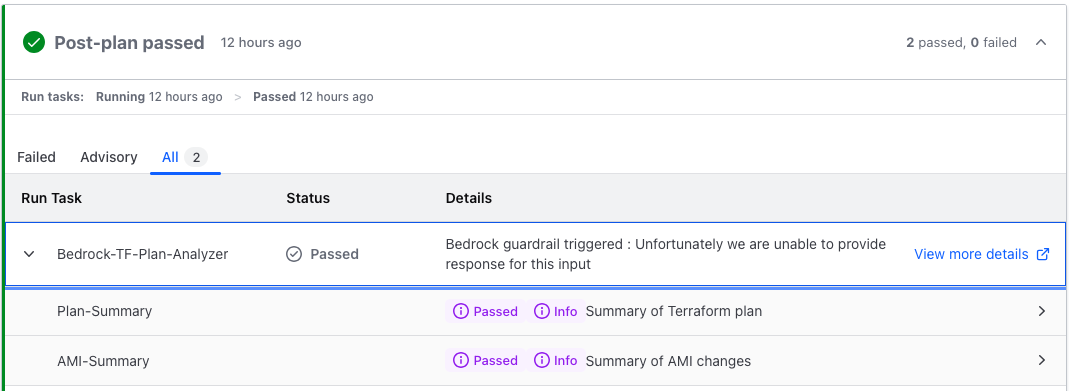
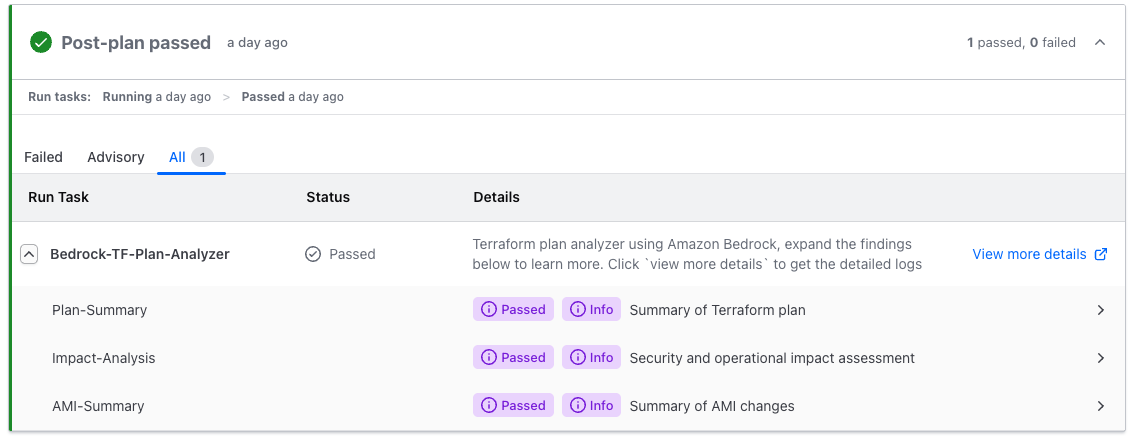
fix: updated docs to refer claude 4, updated python module bindings

diff --git a/README.md b/README.md
@@ -3,7 +3,7 @@
 
 ## Overview
 
-Enhance your HashiCorp Cloud Platform Terraform (Terraform Cloud) workflows with AI-powered analysis using Amazon Bedrock. This module integrates seamlessly as a Run Task to provide:
+Enhance your HashiCorp Cloud Platform Terraform (previosly known as Terraform Cloud) workflows with AI-powered analysis using Amazon Bedrock. This module integrates seamlessly as a Run Task to provide:
 
 * Intelligent Terraform plan analysis with concise, human-friendly summaries
 * Advanced function calling capabilities for extended analysis (e.g., AMI evaluation)
@@ -21,21 +21,28 @@ Enhance your HashiCorp Cloud Platform Terraform (Terraform Cloud) workflows with
    * Easily extend to other API-based tools and services
    ![Example2](./images/example2.png)
 
-3. **Responsible AI Integration**
+3. **Comprehensive Impact Analysis**
+   * Security concerns assessment with risk levels (Critical/High/Medium)
+   * Configuration issues identification and impact evaluation
+   * Operational impact analysis including infrastructure and cost implications
+   * Prioritized recommendations for addressing identified issues
+   ![Example4](./images/example4.png)
+
+4. **Responsible AI Integration**
    * Implement Amazon Bedrock guardrails tailored to your organization's policies
    * Ensure ethical and compliant AI usage in your infrastructure workflows
    ![Example3](./images/example3.png)
 
-4. **Secure Architecture**
+5. **Secure Architecture**
    * Designed for deployment in a dedicated AWS account
    * Optional AWS WAF integration for enhanced endpoint protection
    * Adherence to AWS security best practices
 
-5. **Seamless Terraform Cloud Integration**
+6. **Seamless Terraform Cloud Integration**
    * Operates as a native Run Task within your Terraform Cloud workflow
    * Provides insights without disrupting existing processes
 
-6. **Flexible and Customizable**
+7. **Flexible and Customizable**
    * Adapt the module to fit your specific organizational needs
    * Easily configure and extend guardrails and analysis capabilities
 
@@ -50,7 +57,7 @@ This module leverages a hub-spoke model, designed for deployment in a dedicated 
 To implement this module, you'll need:
 
 1. An AWS account with appropriate credentials
-2. Access to Amazon Bedrock (default model: Claude 3 Sonnet)
+2. Access to Amazon Bedrock (default model: Claude 4 Sonnet)
 3. A HashiCorp Cloud Platform (HCP) Terraform account
 
 ## Getting Started
@@ -58,7 +65,7 @@ To implement this module, you'll need:
 For detailed setup instructions and best practices, please refer to the sections below:
 
 * [Usage](#usage)
-* [Best Practices](#best-practice)
+* [Best Practices](#best-practices)
 
 Enhance your Terraform workflows with AI-powered insights while maintaining security and responsible AI practices.
 
@@ -70,7 +77,11 @@ Enhance your Terraform workflows with AI-powered insights while maintaining secu
   make all
   ```
 
-* Enable Bedrock model access for `Claude 3 Sonnet`. Refer to [this guide for more info](https://docs.aws.amazon.com/bedrock/latest/userguide/model-access.html).
+* Enable Bedrock model access for `Claude 4 Sonnet`. Refer to [this guide for more info](https://docs.aws.amazon.com/bedrock/latest/userguide/model-access.html).
+
+  > **Model access page retiring soon**
+  >
+  > Amazon Bedrock will simplify access to all serverless foundation models, and any new models, by automatically enabling them for every AWS account in commercial AWS regions, eliminating the need to manually activate access through the Bedrock console. Account administrators retain full control over model access through IAM policies and Service Control Policies (SCPs) to restrict model access as needed.
 
 * Reference the `examples/basic` folder on how to use this module
 
@@ -81,7 +92,7 @@ Enhance your Terraform workflows with AI-powered insights while maintaining secu
     terraform apply
     ```
 
-## Best practice
+## Best practices
 
 * **Do not** re-use the Run Tasks URL across different trust-boundary (organizations, accounts, team). We recommend you to deploy separate Run Task deployment per trust-boundary.
 
